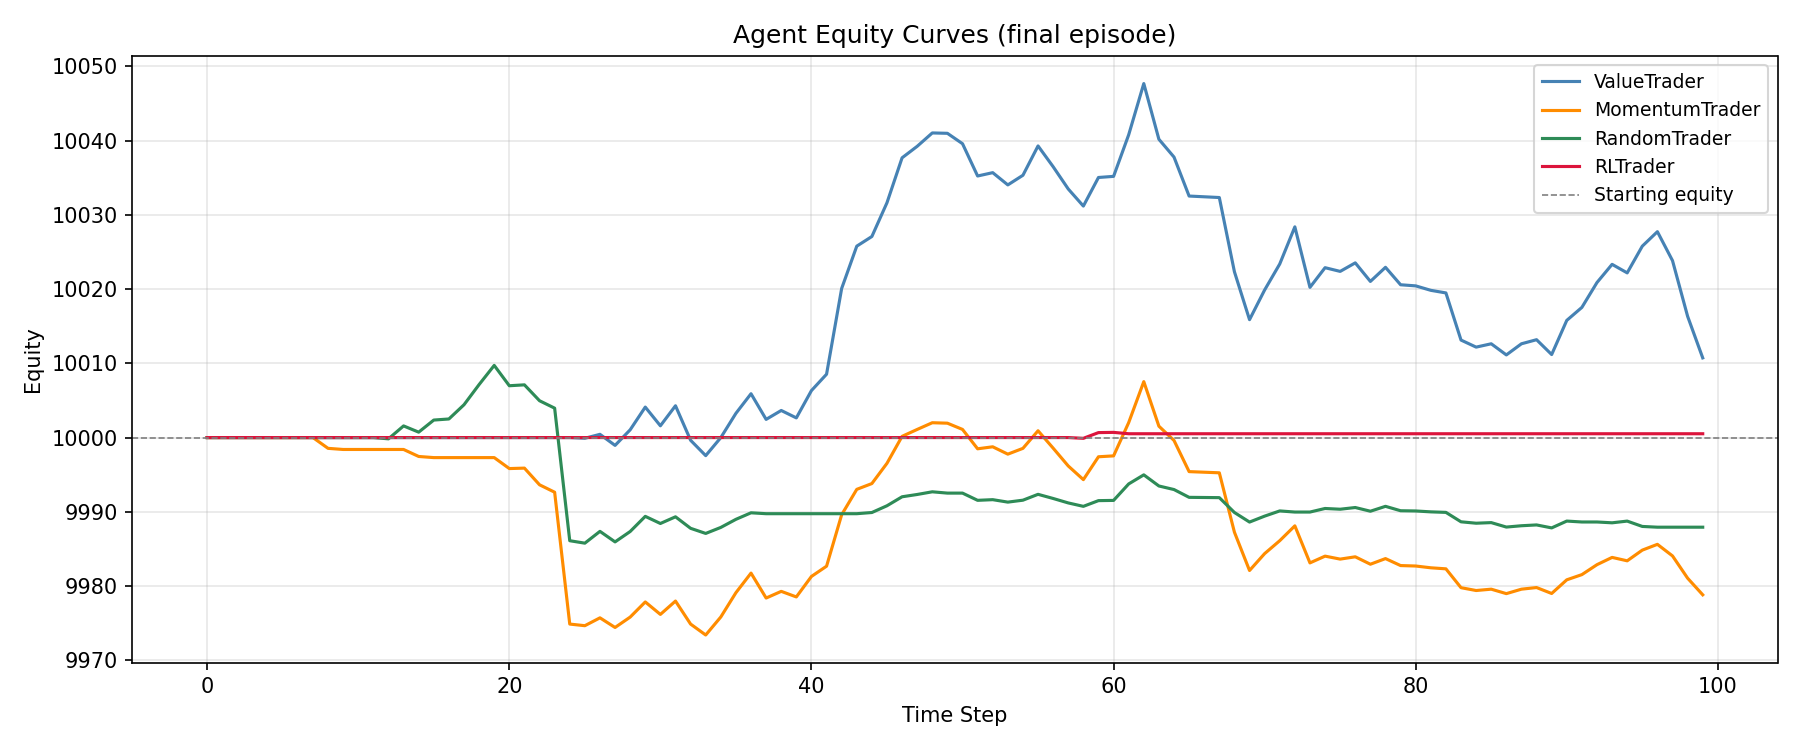
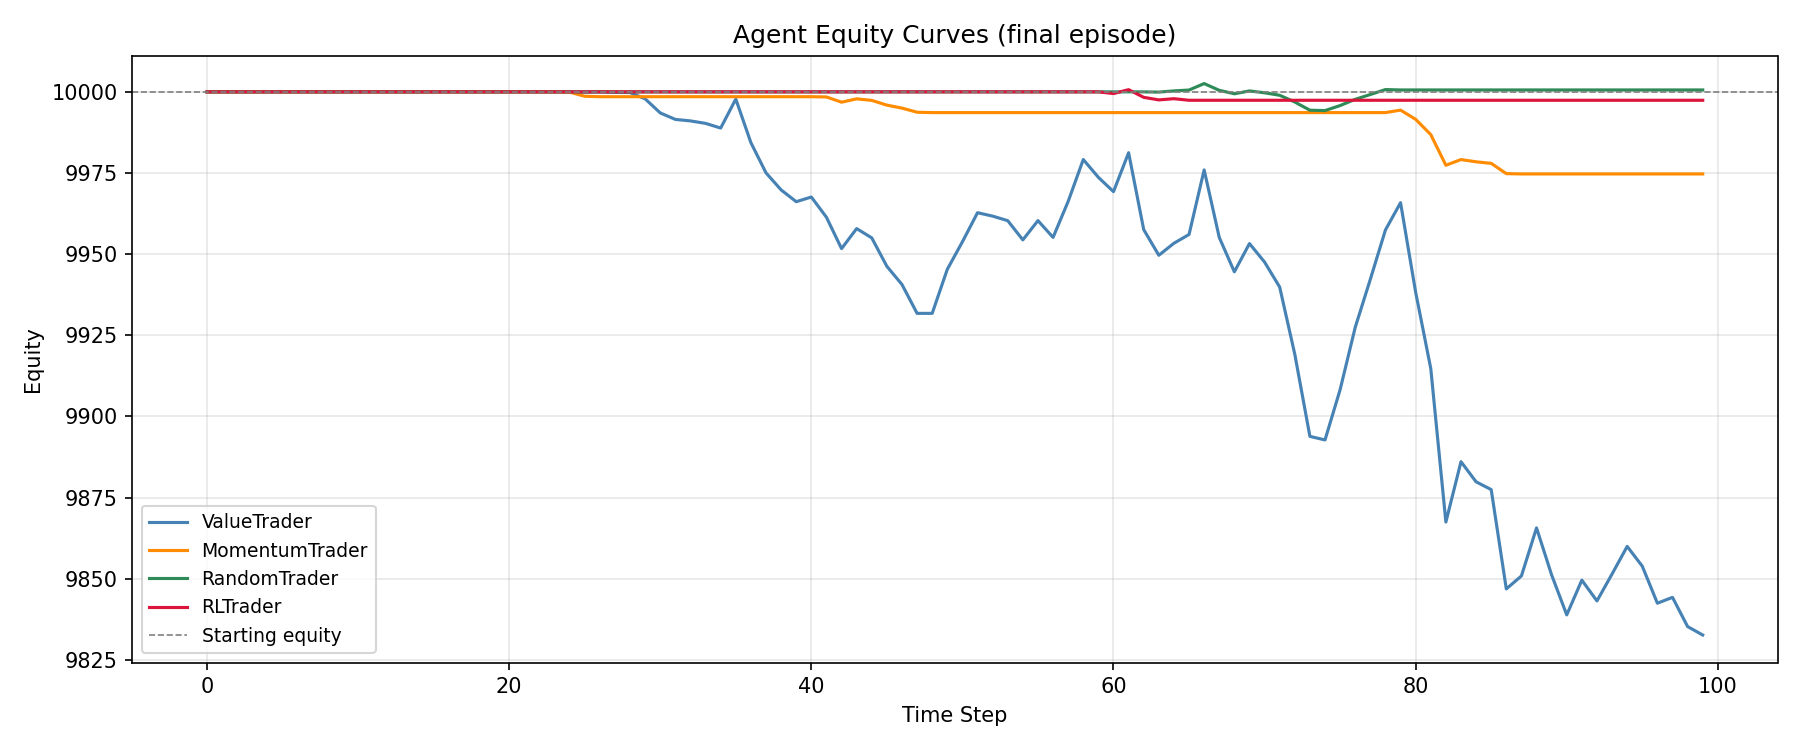
Add volatility features to improve agent performance
Enhance the RL agent's state representation by incorporating short-term and long-term realized volatility features, increasing the feature dimension from 8 to 10. This change involves updating the simulation to calculate and inject these volatility metrics into the market state and modifying the RL agent to process them.

Replit-Commit-Author: Agent
Replit-Commit-Session-Id: 3826bf3c-e3fd-4317-b321-61e418fea702
Replit-Commit-Checkpoint-Type: full_checkpoint
Replit-Commit-Event-Id: 9c1c5878-c8bd-4fa0-a282-79287614ea37
Replit-Helium-Checkpoint-Created: true

diff --git a/project/simulation/simulation.py b/project/simulation/simulation.py
@@ -1,3 +1,6 @@
+import collections
+import math
+
 from agents.trader_agent import ValueTrader, MomentumTrader, RandomTrader
 from agents.rl_agent import ReinforcementLearningTrader
 from agents.market_agent import MarketAgent
@@ -72,6 +75,13 @@ class Simulation:
         self.price_history = []
         self.regime_history = []
 
+        # --- Rolling volatility tracking ----------------------------------
+        # 1-step log-returns are stored; vols are computed from these each step.
+        self.short_vol_window = 5
+        self.long_vol_window = 20
+        self.return_history = collections.deque(maxlen=self.long_vol_window)
+        self._prev_price = None   # tracks last price for return computation
+
     def run(self):
         # Register agents: records starting equity, clears per-episode counters
         self.risk_manager.register_agents(self.agents)
@@ -88,6 +98,34 @@ class Simulation:
                 tick.drift,
                 tick.volatility,
             )
+
+            # --- Rolling realized volatility -----------------------------
+            # Compute 1-step return and update the rolling return history.
+            # Then attach short_vol and long_vol as extra state attributes
+            # so agents can consume them without changing the broker or
+            # MarketState class.
+            if self._prev_price is not None and self._prev_price > 0:
+                price_return = (price - self._prev_price) / self._prev_price
+            else:
+                price_return = 0.0
+            self.return_history.append(price_return)
+            self._prev_price = price
+
+            if len(self.return_history) >= self.short_vol_window:
+                short_slice = list(self.return_history)[-self.short_vol_window:]
+                short_mean = sum(short_slice) / len(short_slice)
+                short_var = sum((r - short_mean) ** 2 for r in short_slice) / max(len(short_slice) - 1, 1)
+                state.short_vol = math.sqrt(short_var)
+            else:
+                state.short_vol = 0.0
+
+            if len(self.return_history) >= self.long_vol_window:
+                long_slice = list(self.return_history)
+                long_mean = sum(long_slice) / len(long_slice)
+                long_var = sum((r - long_mean) ** 2 for r in long_slice) / max(len(long_slice) - 1, 1)
+                state.long_vol = math.sqrt(long_var)
+            else:
+                state.long_vol = 0.0
 
             # --- Deliver queued orders that are due ----------------------
             # Use the *current* state for the risk check so a delayed order

diff --git a/project/agents/rl_agent.py b/project/agents/rl_agent.py
@@ -159,7 +159,7 @@ class ReinforcementLearningTrader(TraderAgent):
 
     # Number of features produced by featurize_state().
     # Must match the length of the tuple featurize_state() returns.
-    FEATURE_DIM = 8
+    FEATURE_DIM = 10   # 8 base + 2 rolling volatility features (short_vol, long_vol)
 
     def __init__(self, name, balance, latency=2):
         super().__init__(name, balance, latency)
@@ -327,13 +327,15 @@ class ReinforcementLearningTrader(TraderAgent):
         Features
         --------
         A. price_bucket  – normalized 1-step price return, 3dp.
-        B. vol_bucket    – current volatility, 3dp.
+        B. vol_bucket    – current regime volatility parameter, 3dp.
         C. drift_bucket  – current drift, 3dp.
         D. inv_bucket    – agent's integer position (raw).
         E. regime        – regime string (converted to float in state_to_vector).
         F. m1            – 1-step momentum if MarketState provides it, else 0.
         G. m3            – 3-step momentum if MarketState provides it, else 0.
         H. imbalance     – order-flow imbalance if MarketState provides it, else 0.
+        I. short_vol     – 5-step realized volatility from return history, capped at 0.1.
+        J. long_vol      – 20-step realized volatility from return history, capped at 0.1.
         """
         prev_price = agent.last_mid_price
         if prev_price is not None and prev_price > 0:
@@ -354,7 +356,17 @@ class ReinforcementLearningTrader(TraderAgent):
             if hasattr(market_state, "order_imbalance") else 0
         )
 
-        return (price_bucket, vol_bucket, drift_bucket, inv_bucket, regime, m1, m3, imbalance)
+        # Rolling realized volatility injected by the simulation each step.
+        # Capped at 0.1 to keep the feature in a consistent magnitude range
+        # regardless of extreme price moves.
+        short_vol = round(min(getattr(market_state, "short_vol", 0.0), 0.1), 5)
+        long_vol  = round(min(getattr(market_state, "long_vol",  0.0), 0.1), 5)
+
+        return (
+            price_bucket, vol_bucket, drift_bucket, inv_bucket, regime,
+            m1, m3, imbalance,
+            short_vol, long_vol,
+        )
 
     # ------------------------------------------------------------------
     # Feature vector conversion
